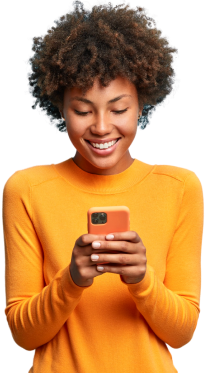
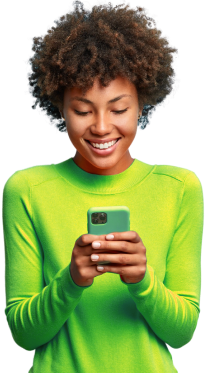
Alteração de cor, mais compátivel com o projeto

diff --git a/lib/shared/themes/app_colors.dart b/lib/shared/themes/app_colors.dart
@@ -1,7 +1,9 @@
 import 'package:flutter/material.dart';
 
 class AppColors {
-  static final primary = Color(0xFFFF941A);
+  //static final primary = Color(0xFFFF941A);
+  static final primary = Color(0xFF76cc2c); //#76cc2c verde + #97d85e degradê
+  static final secondary = Color(0xFF97d85e);
   static final grey = Color(0xFF585666);
   static final delete = Color(0xFFE83F5B);
   static final heading = Color(0xFF585666);
